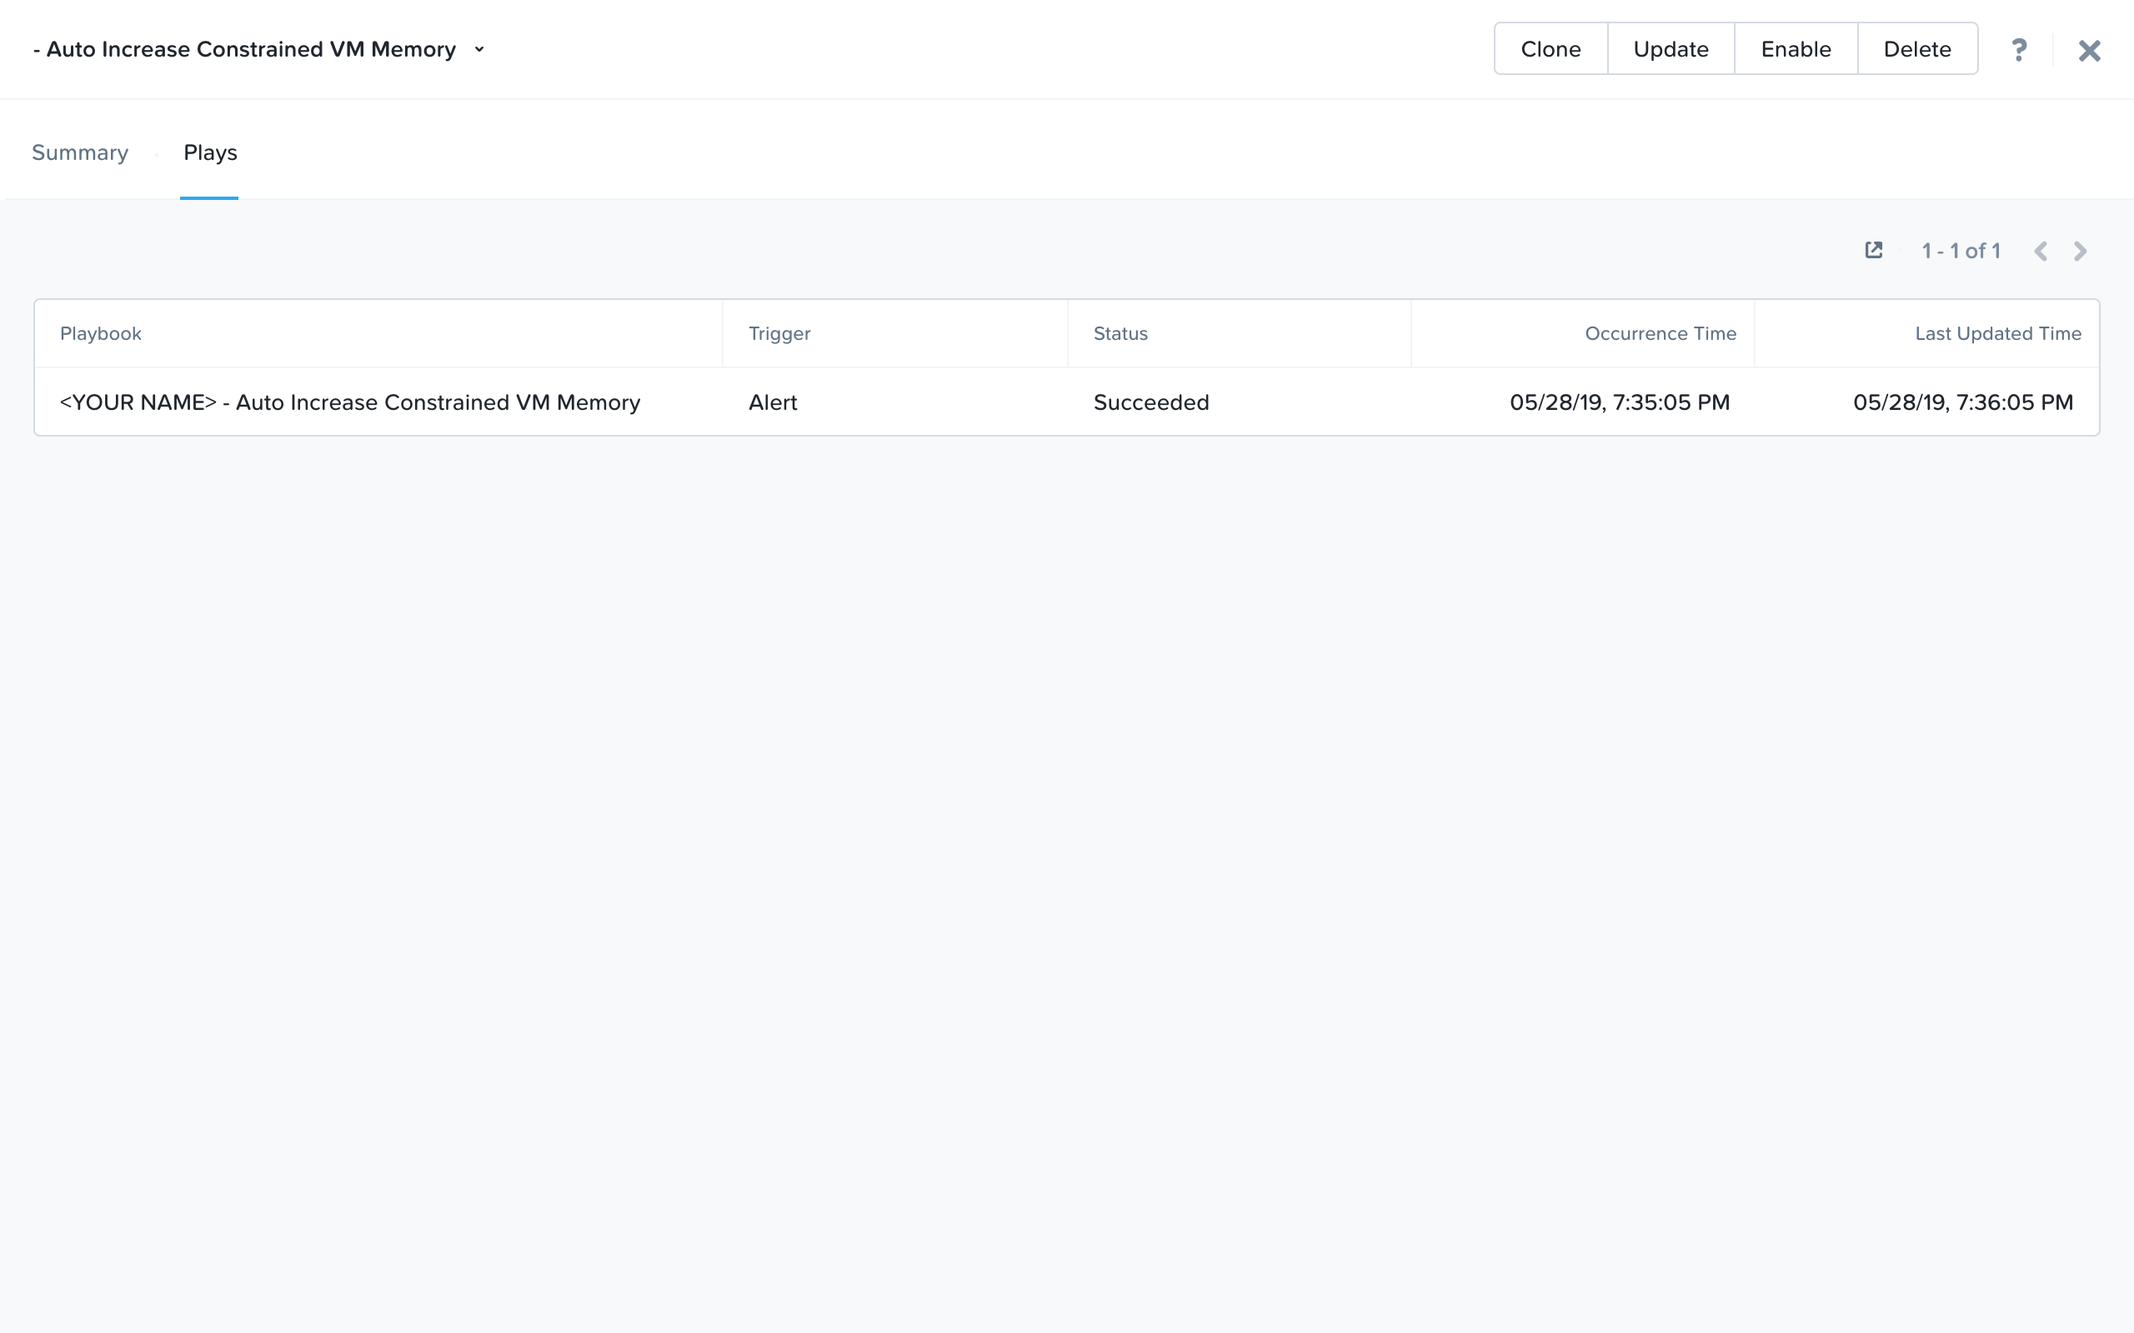
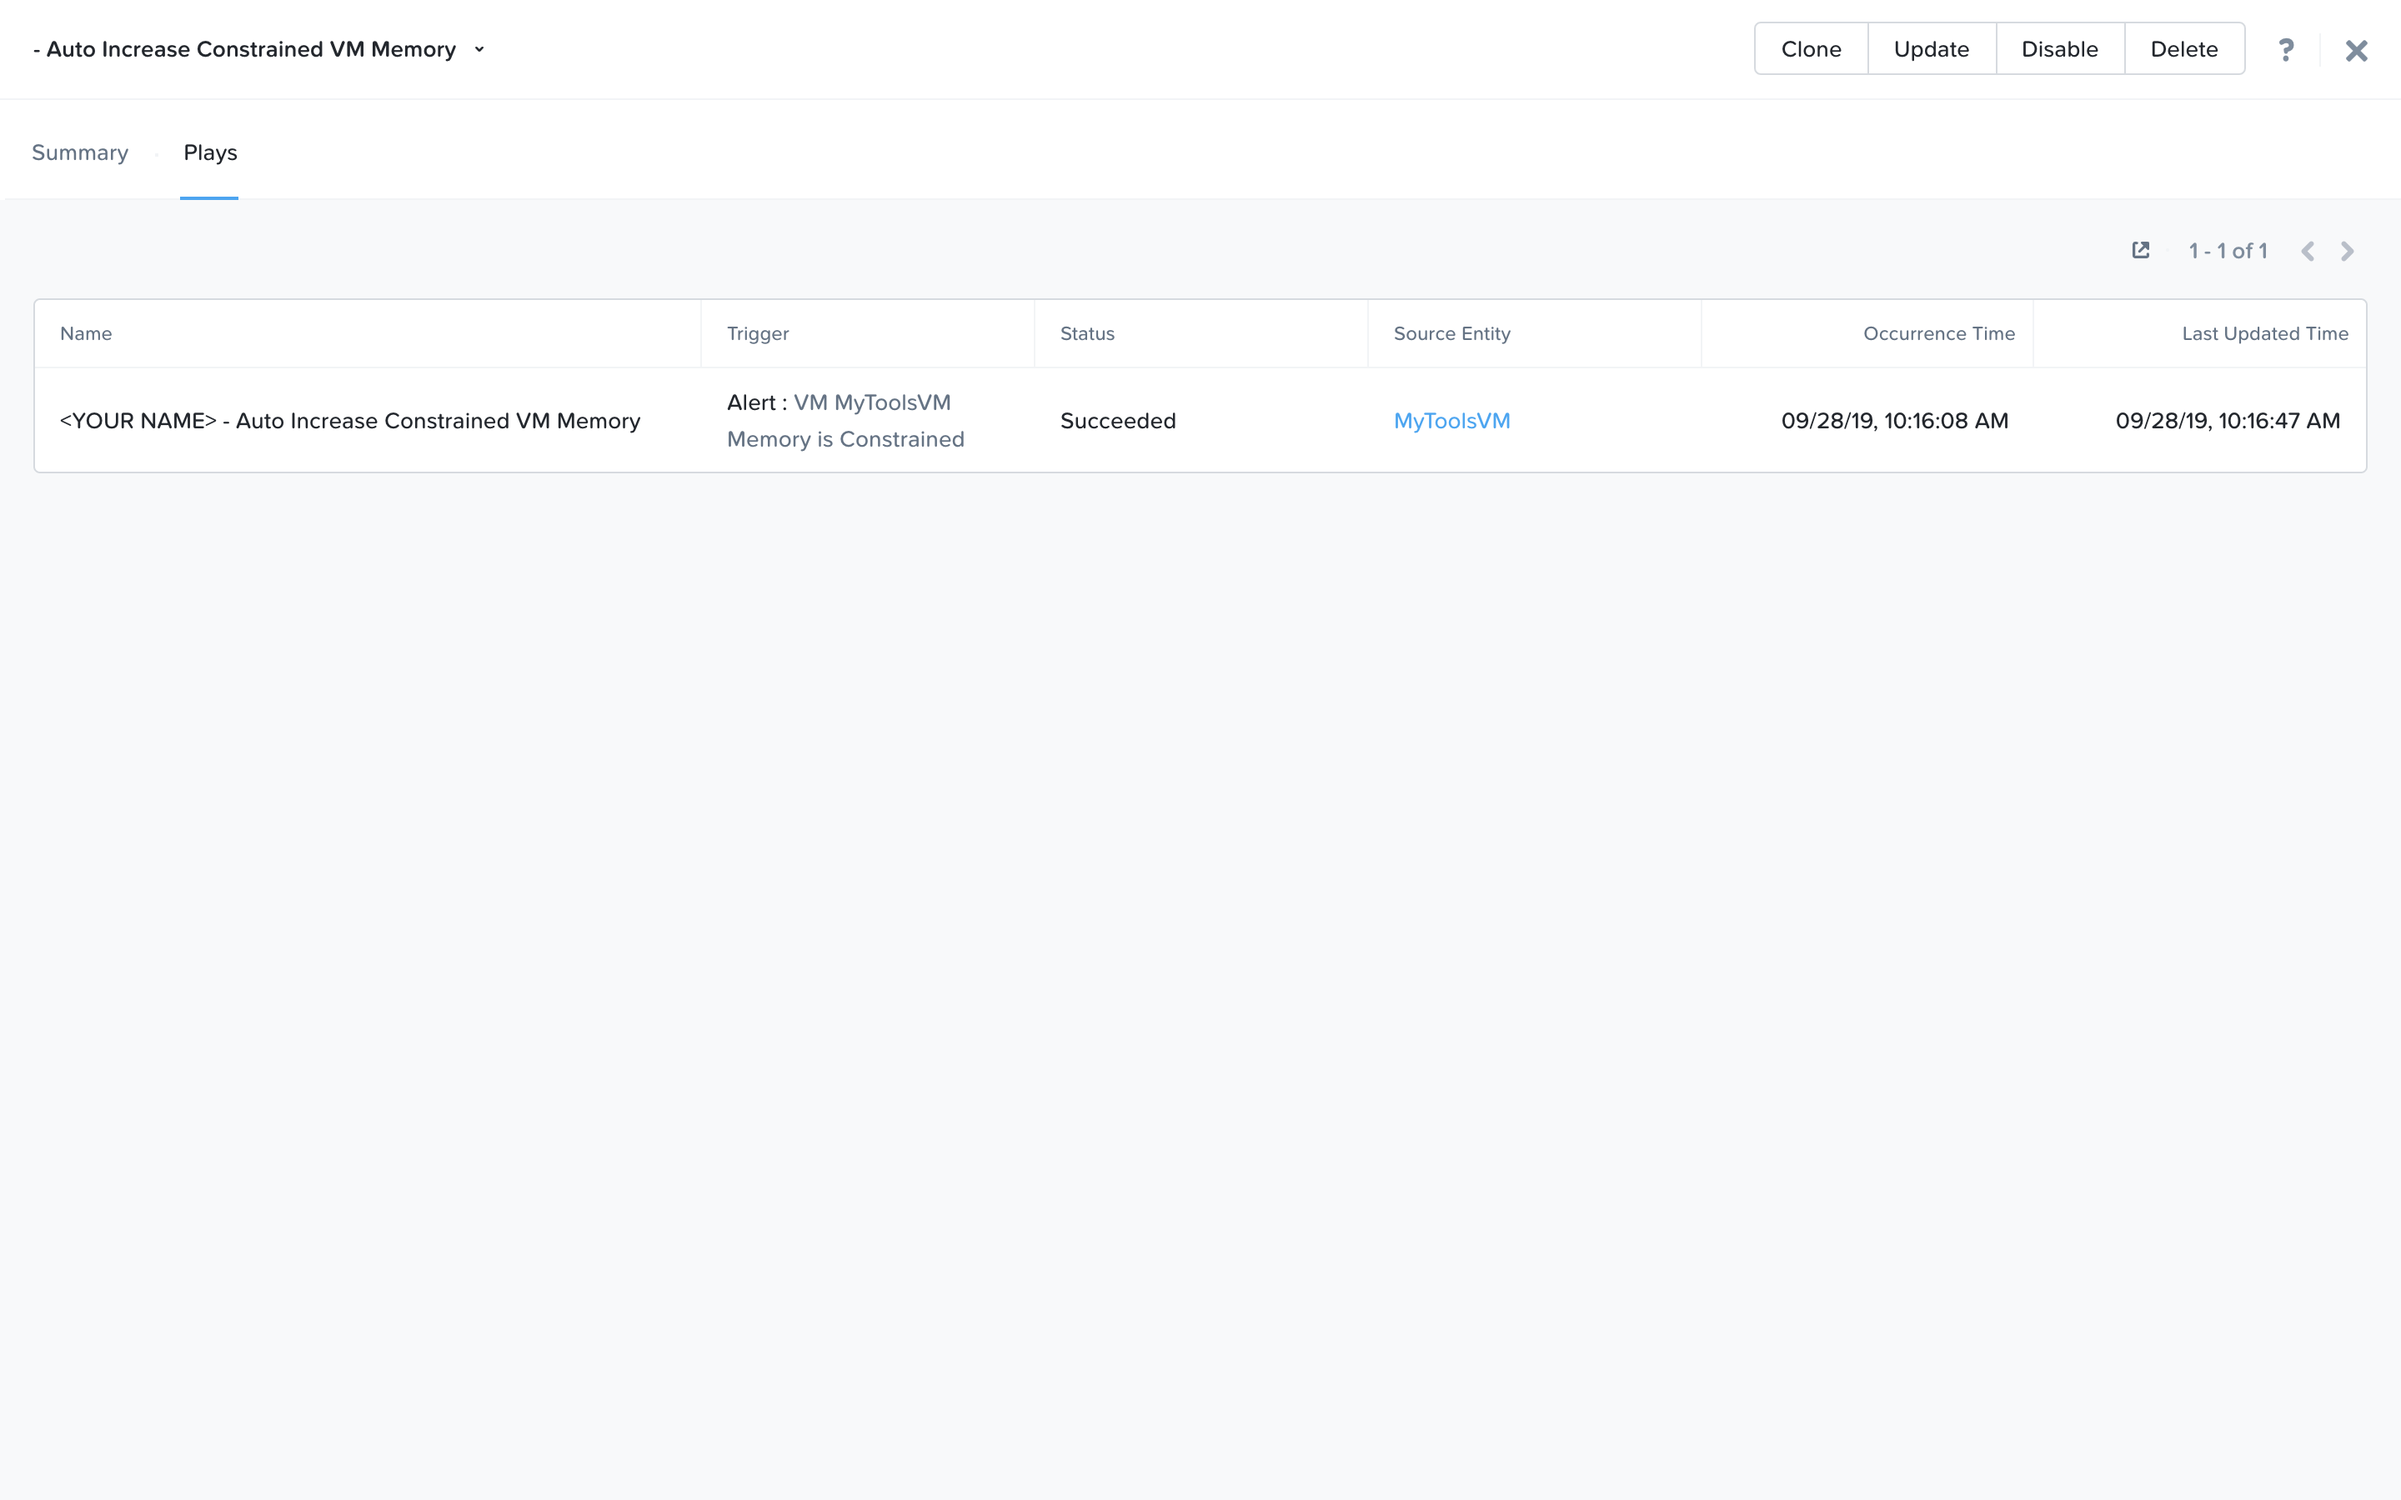
Updates to the lab steps to include new photos and slight updates for the updated workflow.

diff --git a/prismpro_xplay/prismpro_xplay.rst b/prismpro_xplay/prismpro_xplay.rst
@@ -35,18 +35,20 @@ There are no other tools in the market taking this approach and has the power to
 Lab Setup
 +++++++++
 
-This lab requires a VM to be provisioned and will be stressed later in the lab to produce CPU and memory metrics.
+This lab requires a VM to be provisioned and powered on for the X-Play portion.
 
 Applications provisioned as part of the  :ref:`linux_tools_vm` will be used to accomplish this.
 
-#. Please follow the instructions to deploy the :ref:`linux_tools_vm` before moving on with this lab.
+#. Please follow the instructions to deploy the :ref:`linux_tools_vm` and power it on before moving on with this lab.
 
 
 #. Right click the following URL to open a new tab and navigate to the webpage at http://10.42.247.70 and enter the details in the Setup portion of the form. Then click 'Begin Setup' once you have filled in all the fields. This will get your environment ready for this lab. **Keep this tab open during entire Prism Pro lab to return to as directed in later portions.**
 
    .. figure:: images/ppro_08.png
 
-#. After hitting continue, it will take a bit of time for the setup to complete. In the meantime, switch back to Prism Central and go through the labs.
+#. Once step 1 completes, launch the PrismProServer by clicking the provided link. This should load the Prism Central UI. Use this version of the UI to go through the lab. If the link does not work on the first try, it is possible the PrismProServer might still be starting. Wait a few seconds and refresh the page.
+
+   .. figure:: images/ppro_08b.png
 
 VM Efficiency
 +++++++++++++++++++++++++++
@@ -84,7 +86,7 @@ In this lab story you will take a look at VMs with an anomaly. An anomaly is a d
 
    .. figure:: images/ppro_61.png
 
-#. Go to Metrics > CPU Usage. Notice a dark blue line, and a lighter blue area around it. The dark blue line is the CPU Usage. The light blue area is the expected CPU Usage range for this VM. This range is calculated using Prism Pro’s X-FIT machine learning engine. In this case, an anomaly has been raised for this VM, because the Usage is far below the expected range. You can also reduce the time range “Last 24 hours” to examine the chart more closely.
+#. Go to Metrics > CPU Usage. Notice a dark blue line, and a lighter blue area around it. The dark blue line is the CPU Usage. The light blue area is the expected CPU Usage range for this VM. This range is calculated using Prism Pro’s X-FIT machine learning engine. This particular VM is running an application that is upgraded at the same time each day, which explains the usage pattern. Notice that X-FIT detects the seasonality in this usage pattern and has adjusted the expected range accordingly. In this case, an anomaly has been raised for this VM, because the Usage is far above the expected range. You can also reduce the time range “Last 24 hours” to examine the chart more closely.
 
    .. figure:: images/ppro_60.png
 
@@ -216,7 +218,7 @@ You are welcome to compose your own subject message. The above is just an exampl
 
    .. figure:: images/ppro_36.png
 
-#. Click **Add Action** to add the **Acknowledge Alert** action
+#. Click **Add Action** to add the **Resolve Alert** action.
 
    .. figure:: images/ppro_37.png
 
@@ -232,11 +234,11 @@ You are welcome to compose your own subject message. The above is just an exampl
 
    .. figure:: images/ppro_41.png
 
-#. **Switch tabs back to** the http://10.42.247.70 page and continue to the Story 1-3 Step.
+#. **Switch tabs back to** the http://10.42.247.70 page and press Continue from the Story 1-3 Step, if you have not already.
 
-   .. figure:: images/ppro_66.png
+   .. figure:: images/ppro_08b.png
 
-#. Now we will simulate an alert for ‘VM Memory Constrained’ which will trigger the Playbook we just created. Click the ‘Simulate Alert’ button to create the alert.
+#. Now we will simulate an alert for ‘VM Memory Constrained’ which will trigger the Playbook we just created. Select your VM from the dropdown and click the ‘Simulate Alert’ button to create the alert.
 
    .. figure:: images/ppro_64.png
 
@@ -262,15 +264,6 @@ Using X-Play with 3rd Party API
 
 For this story we will be using Habitica to show how we can use 3rd Party APIs with X-Play. Habitica is a free habit and productivity app that treats your real life like a game. We will be creating a task with Habitica.
 
-
-#. Use the search bar to navigate to the **Playbooks** page.
-
-   .. figure:: images/ppro_26.png
-
-#. We will start by creating a Playbook. Click **Create Playbook** at the top of the table view
-
-   .. figure:: images/ppro_27.png
-
 #. Use the search bar to navigate to the **Action Gallery** page.
 
    .. figure:: images/ppro_47.png
@@ -279,7 +272,7 @@ For this story we will be using Habitica to show how we can use 3rd Party APIs w
 
    .. figure:: images/ppro_48.png
 
-#. We are creating an Action that we can later use in our playbook to create a Task in Habitica. Fill in the following values replacing your name in the <YOUR NAME HERE> part.
+#. We are creating an Action that we can later use in our playbook to create a Task in Habitica. Fill in the following values replacing your initials in the *Initials* part.
 
 **Name:** *Initials* - Create Habitica Task
 
@@ -302,6 +295,12 @@ For this story we will be using Habitica to show how we can use 3rd Party APIs w
 
 #. Navigate back to the Playbooks page using the search bar.
 
+   .. figure:: images/ppro_49b.png
+
+#. Click **Create Playbook** at the top of the table view.
+
+   .. figure:: images/ppro_27.png
+
 #. Select the **Alert trigger** and search for and select the alert policy **VM Bully {vm_name}**. This is the alert that we would like to act on to handle when the system detects a Bully VM.
 
    .. figure:: images/ppro_50.png
@@ -314,11 +313,11 @@ For this story we will be using Habitica to show how we can use 3rd Party APIs w
 
    .. figure:: images/ppro_51.png
 
-#. Next we would like to create a task so that we can look into what is causing this VM to be a Bully. Add another Action. This time select the action you created called, Create Habitica Task.
+#. Next we would like to create a task so that we can look into what is causing this VM to be a Bully. Add another Action. This time select the action you created called, Create Habitica Task - *Initials*.
 
    .. figure:: images/ppro_53.png
 
-#. Add one more action, select the Acknowledge Alert action. Use the parameters for this action to fill in the ‘Alert’ parameter.
+#. Add one more action, select the Resolve Alert action.
 
    .. figure:: images/ppro_54.png
 
